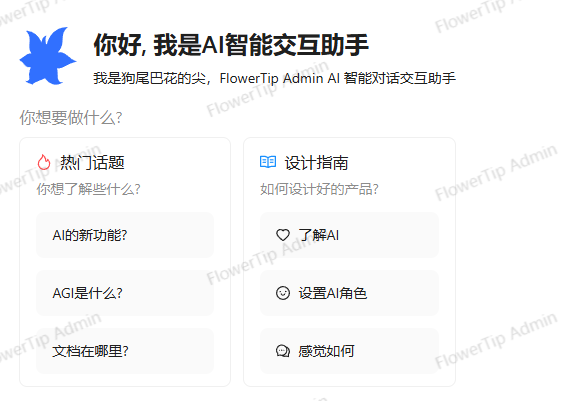
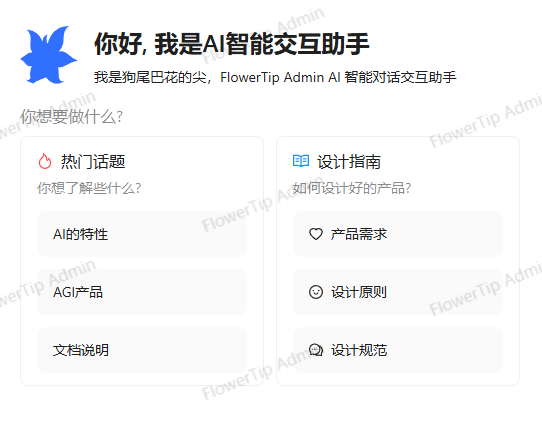
优化AI助手功能

diff --git a/src/layout/components/chat.tsx b/src/layout/components/chat.tsx
@@ -1,7 +1,6 @@
 import {
   Attachments,
   Bubble,
-  Conversations,
   Prompts,
   Sender,
   Welcome,
@@ -11,19 +10,17 @@ import {
 } from '@ant-design/x';
 import Markdown from 'react-markdown';
 import { createStyles } from 'antd-style';
-import React, { useEffect } from 'react';
+import React from 'react';
 
 import CloudUploadOutlined from '@ant-design/icons/CloudUploadOutlined';
 import CommentOutlined from '@ant-design/icons/CommentOutlined';
 import FireOutlined from '@ant-design/icons/FireOutlined';
 import HeartOutlined from '@ant-design/icons/HeartOutlined';
 import PaperClipOutlined from '@ant-design/icons/PaperClipOutlined';
-import PlusOutlined from '@ant-design/icons/PlusOutlined';
 import ReadOutlined from '@ant-design/icons/ReadOutlined';
 import SmileOutlined from '@ant-design/icons/SmileOutlined';
-import DeleteOutlined from '@ant-design/icons/DeleteOutlined';
 import UserAddOutlined from '@ant-design/icons/UserAddOutlined';
-import { Badge, Button, Spin, type GetProp, Space } from 'antd';
+import { Flex, Badge, Button, Spin, type GetProp, Space } from 'antd';
 import { SSEFields } from '@ant-design/x/es/x-stream';
 
 // https://api.siliconflow.cn/v1/chat/completions
@@ -53,19 +50,13 @@ const renderTitle = (icon: React.ReactElement, title: string) => (
   </Space>
 );
 
-const defaultConversationsItems = [
-  {
-    key: '0',
-    label: '临时会话',
-  },
-];
 
 const useStyle = createStyles(({ token, css }) => {
   return {
     layout: css`
       width: 100%;
       height: auto;
-      min-width: 800px;
+      min-width: 540px;
       border-radius: ${token.borderRadius}px;
       display: flex;
       background: ${token.colorBgContainer};
@@ -75,22 +66,9 @@ const useStyle = createStyles(({ token, css }) => {
         color: ${token.colorText};
       }
     `,
-    menu: css`
-      background: ${token.colorBgLayout}80;
-      width: 310px;
-      height: 100%;
-      display: flex;
-      flex-direction: column;
-    `,
-    conversations: css`
-      padding: 0 12px;
-      flex: 1;
-      overflow-y: auto;
-    `,
     chat: css`
       height: 100%;
       width: 100%;
-      max-width: 700px;
       margin: 0 auto;
       box-sizing: border-box;
       display: flex;
@@ -102,7 +80,7 @@ const useStyle = createStyles(({ token, css }) => {
       flex: 1;
     `,
     placeholder: css`
-      padding-top: 32px;
+      width: 100%;
     `,
     sender: css`
       box-shadow: ${token.boxShadow};
@@ -129,12 +107,6 @@ const useStyle = createStyles(({ token, css }) => {
         font-size: 16px;
       }
     `,
-    addBtn: css`
-      background: #1677ff0f;
-      border: 1px solid #1677ff34;
-      width: calc(100% - 24px);
-      margin: 0 12px 24px 12px;
-    `,
   };
 });
 
@@ -146,15 +118,15 @@ const placeholderPromptsItems: GetProp<typeof Prompts, 'items'> = [
     children: [
       {
         key: '1-1',
-        description: `AI的新功能?`,
+        description: `AI的特性`,
       },
       {
         key: '1-2',
-        description: `AGI是什么?`,
+        description: `AGI产品`,
       },
       {
         key: '1-3',
-        description: `文档在哪里?`,
+        description: `文档说明`,
       },
     ],
   },
@@ -166,32 +138,19 @@ const placeholderPromptsItems: GetProp<typeof Prompts, 'items'> = [
       {
         key: '2-1',
         icon: <HeartOutlined />,
-        description: `了解AI`,
+        description: `产品需求`,
       },
       {
         key: '2-2',
         icon: <SmileOutlined />,
-        description: `设置AI角色`,
+        description: `设计原则`,
       },
       {
         key: '2-3',
         icon: <CommentOutlined />,
-        description: `感觉如何`,
+        description: `设计规范`,
       },
     ],
-  },
-];
-
-const senderPromptsItems: GetProp<typeof Prompts, 'items'> = [
-  {
-    key: '1',
-    description: '热门话题',
-    icon: <FireOutlined style={{ color: '#FF4D4F' }} />,
-  },
-  {
-    key: '2',
-    description: '设计指南',
-    icon: <ReadOutlined style={{ color: '#1890FF' }} />,
   },
 ];
 
@@ -237,10 +196,6 @@ const Independent: React.FC = () => {
 
   const [content, setContent] = React.useState('');
 
-  const [conversationsItems, setConversationsItems] = React.useState(defaultConversationsItems);
-
-  const [activeKey, setActiveKey] = React.useState(defaultConversationsItems[0].key);
-
   const [attachedFiles, setAttachedFiles] = React.useState<GetProp<typeof Attachments, 'items'>>(
     [],
   );
@@ -282,12 +237,6 @@ const Independent: React.FC = () => {
     agent,
   });
 
-  useEffect(() => {
-    if (activeKey !== undefined) {
-      setMessages([]);
-    }
-  }, [activeKey]);
-
   // ==================== Event ====================
   const onSubmit = async (nextContent: string) => {
     if (!nextContent) return;
@@ -299,39 +248,27 @@ const Independent: React.FC = () => {
     onRequest(info.data.description as string);
   };
 
-  const onAddConversation = () => {
-    setConversationsItems([
-      ...conversationsItems,
-      {
-        key: `${conversationsItems.length}`,
-        label: `当前对话${conversationsItems.length + 1}`,
-      },
-    ]);
-    setActiveKey(`${conversationsItems.length}`);
-  };
-
-  const onConversationClick: GetProp<typeof Conversations, 'onActiveChange'> = (key) => {
-    setActiveKey(key);
-  };
-
   const handleFileChange: GetProp<typeof Attachments, 'onChange'> = (info) =>
     setAttachedFiles(info.fileList);
 
   // ==================== Nodes ====================
   const placeholderNode = (
-    <Space direction="vertical" size={16} className={styles.placeholder}>
+    <Space direction="vertical" align="center" size={16} className={styles.placeholder}>
       <Welcome
         variant="borderless"
         icon="https://www.flowertip.site/pro/favicon.svg"
         title="你好, 我是AI智能交互助手"
         description="我是狗尾巴花的尖，FlowerTip Admin AI 智能对话交互助手"
+        style={{
+          width: '500px'
+        }}
       />
       <Prompts
         title="你想要做什么?"
         items={placeholderPromptsItems}
         styles={{
           list: {
-            width: '100%',
+            width: '500px',
           },
           item: {
             flex: 1,
@@ -387,58 +324,9 @@ const Independent: React.FC = () => {
     </Sender.Header>
   );
 
-  const logoNode = (
-    <div className={styles.logo}>
-      <img
-        src="./favicon.svg"
-        draggable={false}
-        alt="logo"
-      />
-      <span>狗尾巴花的尖</span>
-    </div>
-  );
-
   // ==================== Render =================
   return (
     <div className={styles.layout}>
-      <div className={styles.menu}>
-        {/* 🌟 Logo */}
-        {logoNode}
-        {/* 🌟 添加会话 */}
-        <Button
-          onClick={onAddConversation}
-          type="link"
-          className={styles.addBtn}
-          icon={<PlusOutlined />}
-        >
-          新建对话
-        </Button>
-        {/* 🌟 会话管理 */}
-        <Conversations
-          menu={(conversation) => (
-            {
-              items: [
-                {
-                  label: '删除会话',
-                  key: 'deleteKey',
-                  icon: <DeleteOutlined />,
-                },
-              ],
-              onClick: (menuInfo) => {
-                console.log(`Click ${conversation.key} - ${menuInfo.key}`);
-                const filterItems = conversationsItems.filter(item => conversation.key !== item.key);
-                setConversationsItems(filterItems);
-                const defaultItem = filterItems[filterItems.length - 1]
-                setActiveKey(defaultItem ? defaultItem.key : '');
-              },
-            }
-          )}
-          items={conversationsItems}
-          className={styles.conversations}
-          activeKey={activeKey}
-          onActiveChange={onConversationClick}
-        />
-      </div>
       <div className={styles.chat} style={{ whiteSpace: 'pre-line', height: '800px', overflowY: 'auto' }}>
         {/* 🌟 消息列表 */}
         <Bubble.List
@@ -447,8 +335,23 @@ const Independent: React.FC = () => {
           roles={roles}
           className={styles.messages}
         />
-        {/* 🌟 提示词 */}
-        <Prompts items={senderPromptsItems} onItemClick={onPromptsItemClick} />
+        {/* 清空对话按钮 */}
+        <Flex gap={12} align="start" vertical={false} style={{ width: '100%' }}>
+          <Button
+            onClick={() => {
+              setContent('');
+            }}
+          >
+            清空输入框
+          </Button>
+          <Button
+            onClick={() => {
+              setMessages([]);
+            }}
+          >
+            清空对话框
+          </Button>
+        </Flex>
         {/* 🌟 输入框 */}
         <Sender
           value={content}

diff --git a/src/layout/components/rightbar.tsx b/src/layout/components/rightbar.tsx
@@ -678,7 +678,7 @@ const Rightbar = () => {
           </div>
         </div >
       </Drawer >
-      <Drawer title="FlowerTip Admin AI 智能对话交互助手" closeIcon={false} onClose={onClose} open={aiOpen} width={880}>
+      <Drawer title="FlowerTip Admin AI 智能对话交互助手" closeIcon={false} onClose={onClose} open={aiOpen} width={600}>
         <div>
           <ChatAi />
         </div>
